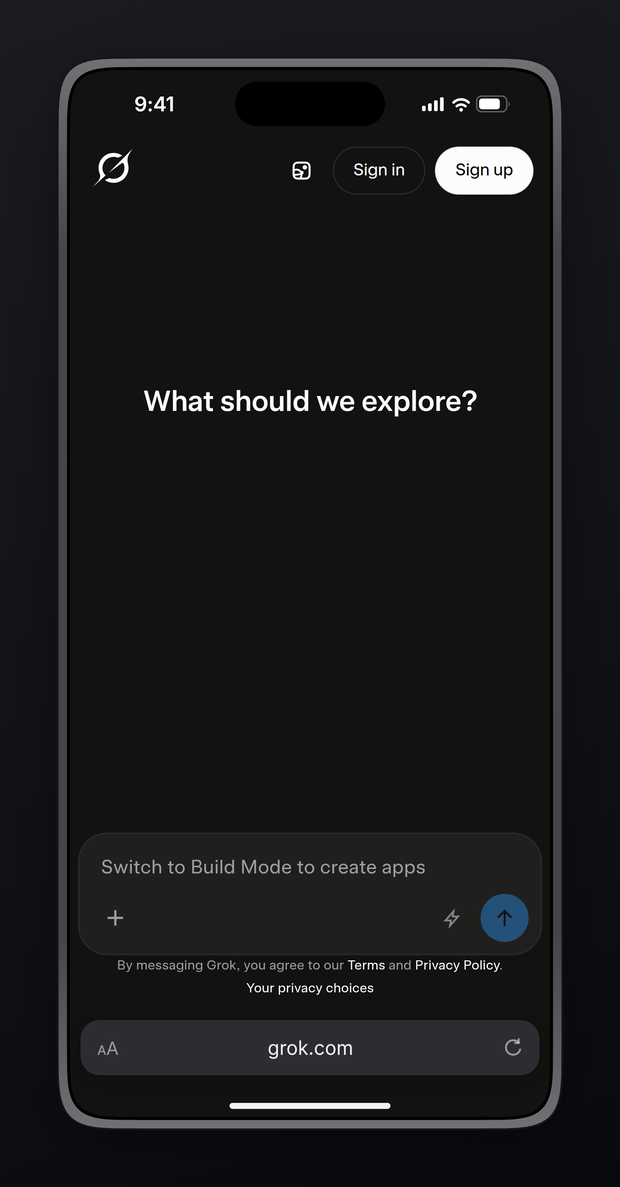
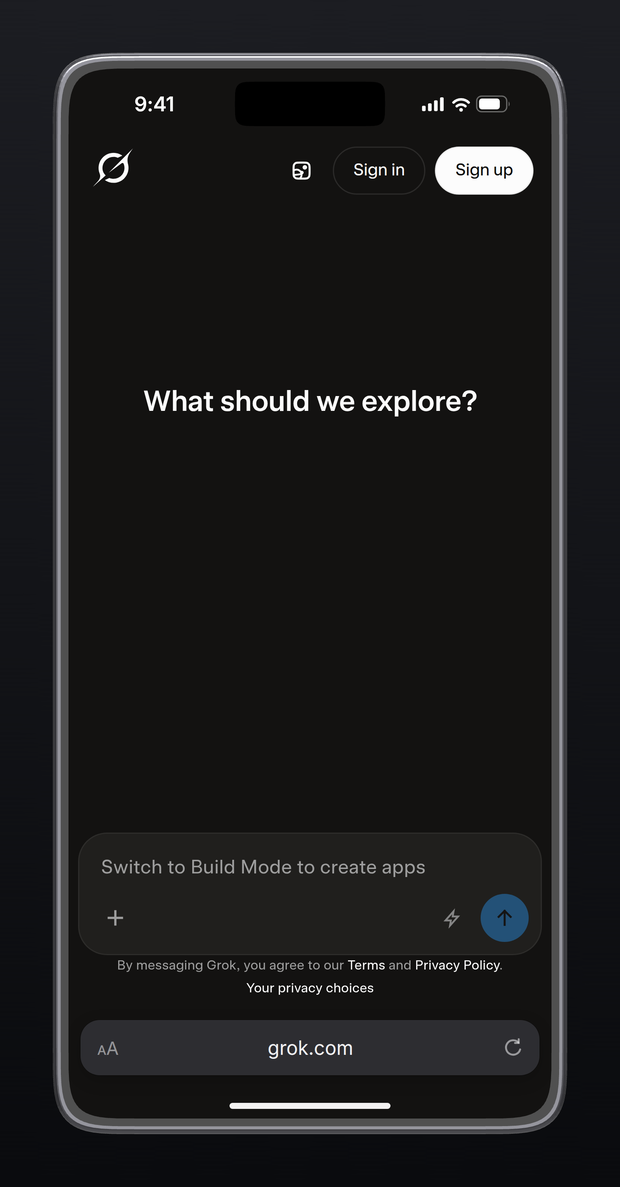
plinth: 3D grok.com showcases and docs
Hero, fan-of-three, and phone+laptop combo renders from logged-out
grok.com; flat assets regenerated through the orthographic path;
README documents views, dependencies (three), and the 3D tests.

Changed region(s): [[0.0613, 0.0312, 0.9194, 0.9663]]

diff --git a/skills/plinth/README.md b/skills/plinth/README.md
@@ -1,31 +1,55 @@
 # Plinth
 
-Device-framed, DPR-correct screenshots of a running app or URL — the
-Figma-mockup-plugin workflow (device frames around app shots) without
-leaving the terminal, driven by your coding agent, with spec-accurate
-device chrome.
+Device mockups of a running app or URL, rendered as real 3D — the
+Figma-mockup-plugin workflow without leaving the terminal, driven by
+your coding agent, with spec-accurate device geometry.
 
-Plinth captures with Playwright at the device's **safe-area viewport**
-(page content never sits under the Dynamic Island, status bar, or home
-indicator), draws faithful chrome, and composites at native DPR. Frames
-and chrome are generated CSS/SVG — no copyrighted vendor artwork.
+Each device is built procedurally in three.js from the verified spec
+table (extruded continuous-corner body with bevels, titanium edge
+material, glass, the island as geometry, optional side buttons — no
+vendor 3D assets). The screen is a plane textured with the 2D
+compositor's output (page capture + status bar + Safari chrome + home
+indicator at native DPR) — that compositor stays the single source of
+screen truth. The flat view is the same scene through an orthographic
+front camera and is pixel-exact to spec; floating views use a
+perspective camera with presets.
 
-![grok.com (logged out) on phone, tablet and laptop frames, dark](assets/grok-com-multi-device-dark.png)
+![grok.com floating on an iPhone 16 Pro, hero view](assets/grok-com-hero-3d.png)
 
 ## Quick start
 
 ```bash
-cd skills/plinth && npm install     # playwright-core + @fontsource/inter
-node scripts/plinth.mjs https://grok.com --device iphone-16-pro --dark
-node scripts/plinth.mjs https://grok.com --device iphone-16-pro --mode safari --dark
+cd skills/plinth && npm install     # playwright-core + three + @fontsource/inter
+node scripts/plinth.mjs https://grok.com --device iphone-16-pro --mode app --view hero --dark
+node scripts/plinth.mjs https://grok.com --device iphone-16-pro --mode safari --dark   # flat, pixel-exact
+node scripts/plinth.mjs shot.png --device iphone-16-pro --view tilt-left               # frame an existing screenshot
 ```
+
+<p>
+  <img alt="fan of three iPhones showing grok.com" src="assets/grok-com-fan-3d.png" width="460" />
+  <img alt="phone + laptop combo showing grok.com" src="assets/grok-com-combo-3d.png" width="460" />
+</p>
+
+## Views
+
+`--view flat` (default) renders the orthographic front view —
+dimensions, island, indicator and alignment verified on every run.
+Floating views: `hero` (three-quarter), `tilt-left` / `tilt-right`,
+`top-down`, `fan` (three devices; one device is replicated), `combo`
+(largest device centered, phone front-right). Options: `--float <pt>`,
+`--transparent`, `--scale 1|2|3`, `--size WxH`, and `--turntable` for a
+seamless float/rotate loop (mp4/gif via ffmpeg). Environment light is a
+procedural room (PMREM); the contact shadow is a soft blob — both
+deterministic, verified by a determinism test.
 
 Requires Node ≥ 18 and an installed Chrome/Chromium (playwright-core
 drives it via the `chrome` channel — no browser download; set
-`PLINTH_BROWSER=/path/to/chrome` to override). ffmpeg only for `--scroll`.
+`PLINTH_BROWSER=/path/to/chrome` to override; WebGL runs on SwiftShader
+where no GPU exists). Dependencies: `playwright-core`, `three`,
+`@fontsource/inter`. ffmpeg only for `--scroll`/`--turntable`.
 
 <p>
-  <img alt="grok.com as iPhone 16 Pro, standalone mode: status bar, island, home indicator, content inside the safe area" src="assets/grok-com-iphone-16-pro-dark.png" width="300" />
+  <img alt="grok.com as iPhone 16 Pro, flat app mode: status bar, island, home indicator, content inside the safe area" src="assets/grok-com-iphone-16-pro-dark.png" width="300" />
   &nbsp;
   <img alt="grok.com as iPhone 16 Pro in safari mode with the compact bottom address bar" src="assets/grok-com-iphone-16-pro-safari-dark.png" width="300" />
 </p>
@@ -142,10 +166,12 @@ above; no authenticated-session capture yet.
 cd skills/plinth && npm install && npm test
 ```
 
-14 tests, including fidelity assertions against a fixture with edge
-markers: no page pixels under the island/status bar/home indicator in
-standalone mode, exact content-origin at the safe-area top, island
-blackness at spec coordinates, home-indicator presence/contrast, safari
-pill presence, macOS menu bar + notch, browser chrome, deterministic
-multi-device dims, fractional DPR, scroll mp4. Tests self-skip without
-Chrome.
+17 tests. The flat-view fidelity assertions run against the 3D
+orthographic render (a fixture with edge markers proves no page pixels
+under the island/status bar/home indicator, exact content origin,
+island blackness at spec coordinates, home-indicator contrast, safari
+pill, macOS menu bar + notch, browser chrome, fractional DPR, scroll
+mp4). 3D-specific tests: transparent output keeps true alpha (corner
+alpha 0, body alpha 255) at the requested canvas size, and rendering is
+deterministic — the same input twice differs by a mean pixel distance
+under 0.5. Tests self-skip without Chrome.

diff --git a/skills/plinth/SKILL.md b/skills/plinth/SKILL.md
@@ -21,14 +21,19 @@ is pixel-sharp) and composites it into a clean generated device frame.
    playwright-core; it drives the system Chrome — no browser download).
    The target app must be reachable by URL (local dev server or public).
 
-2. Capture:
+2. Capture (a URL, or a .png path to frame an existing screenshot):
 
    ```bash
    node <path-to-skill>/scripts/plinth.mjs http://localhost:3000 --device iphone-16-pro
-   node <path-to-skill>/scripts/plinth.mjs https://myapp.dev --device iphone-16-pro --mode safari
-   node <path-to-skill>/scripts/plinth.mjs https://myapp.dev --devices iphone-16-pro,macbook-14 --dark
-   node <path-to-skill>/scripts/plinth.mjs https://myapp.dev --device iphone-16-pro --scroll --out demo.mp4
+   node <path-to-skill>/scripts/plinth.mjs https://myapp.dev --device iphone-16-pro --mode app --view hero
+   node <path-to-skill>/scripts/plinth.mjs https://myapp.dev --devices iphone-16-pro,macbook-14 --view combo --dark
+   node <path-to-skill>/scripts/plinth.mjs https://myapp.dev --device iphone-16-pro --view hero --turntable --out loop.mp4
    ```
+
+   Views: `flat` (default, orthographic, pixel-exact — use for docs and
+   PRs) | `hero` | `tilt-left` | `tilt-right` | `top-down` | `fan` |
+   `combo` (floating 3D — use for READMEs and social). 3D flags:
+   `--float`, `--transparent`, `--scale`, `--size WxH`, `--turntable`.
 
    Devices: `iphone-16-pro`, `iphone-16`, `iphone-15-pro`, `pixel-8`,
    `ipad-pro-11`, `macbook-14`, `browser`. Phone modes: `--mode
